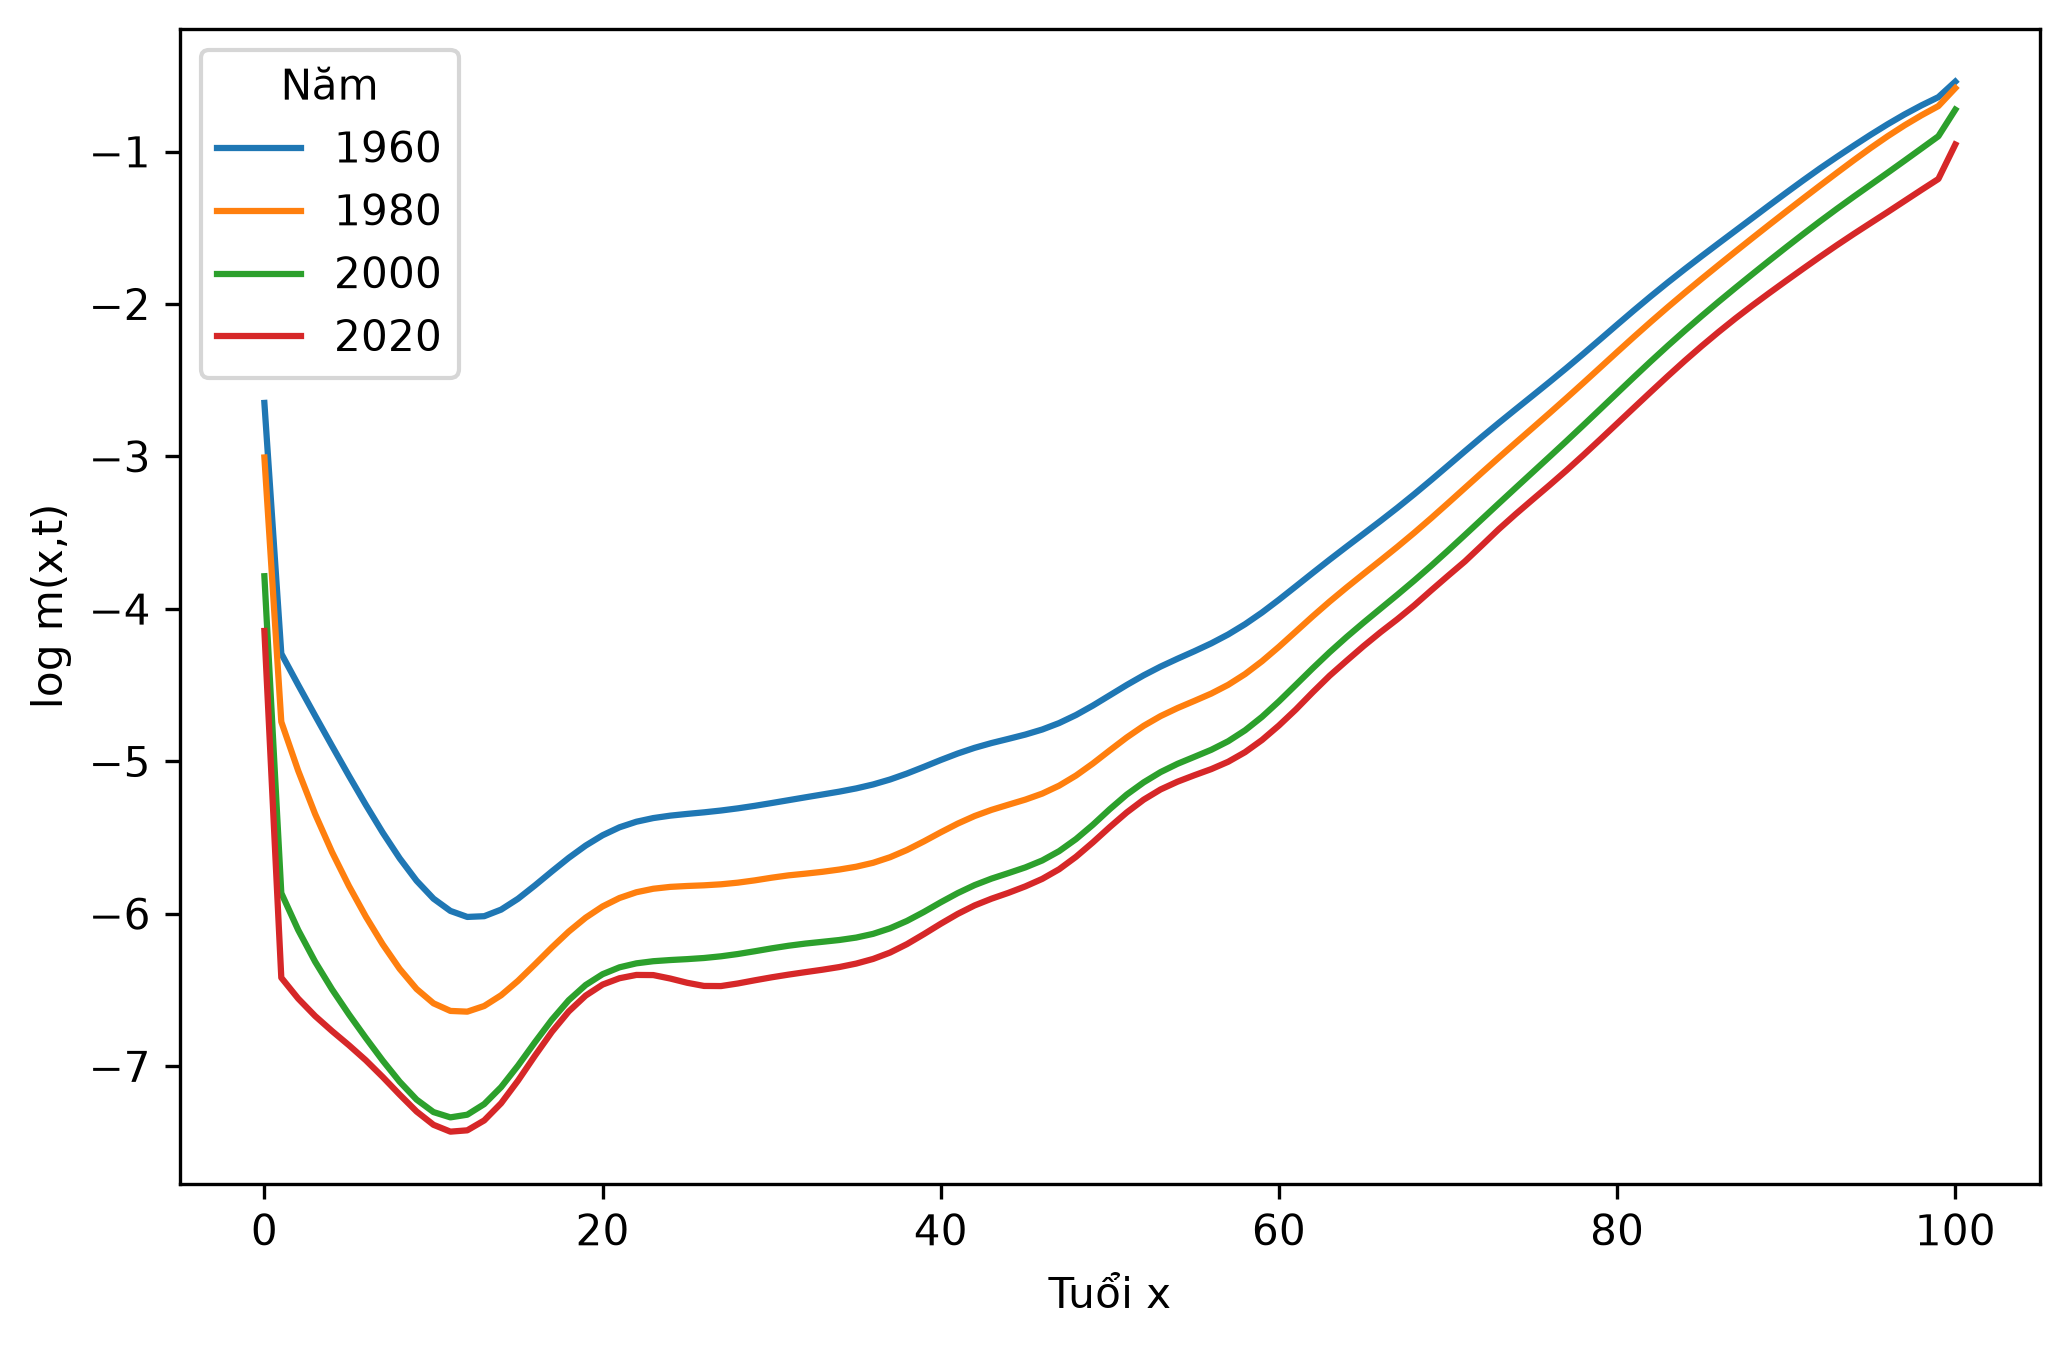
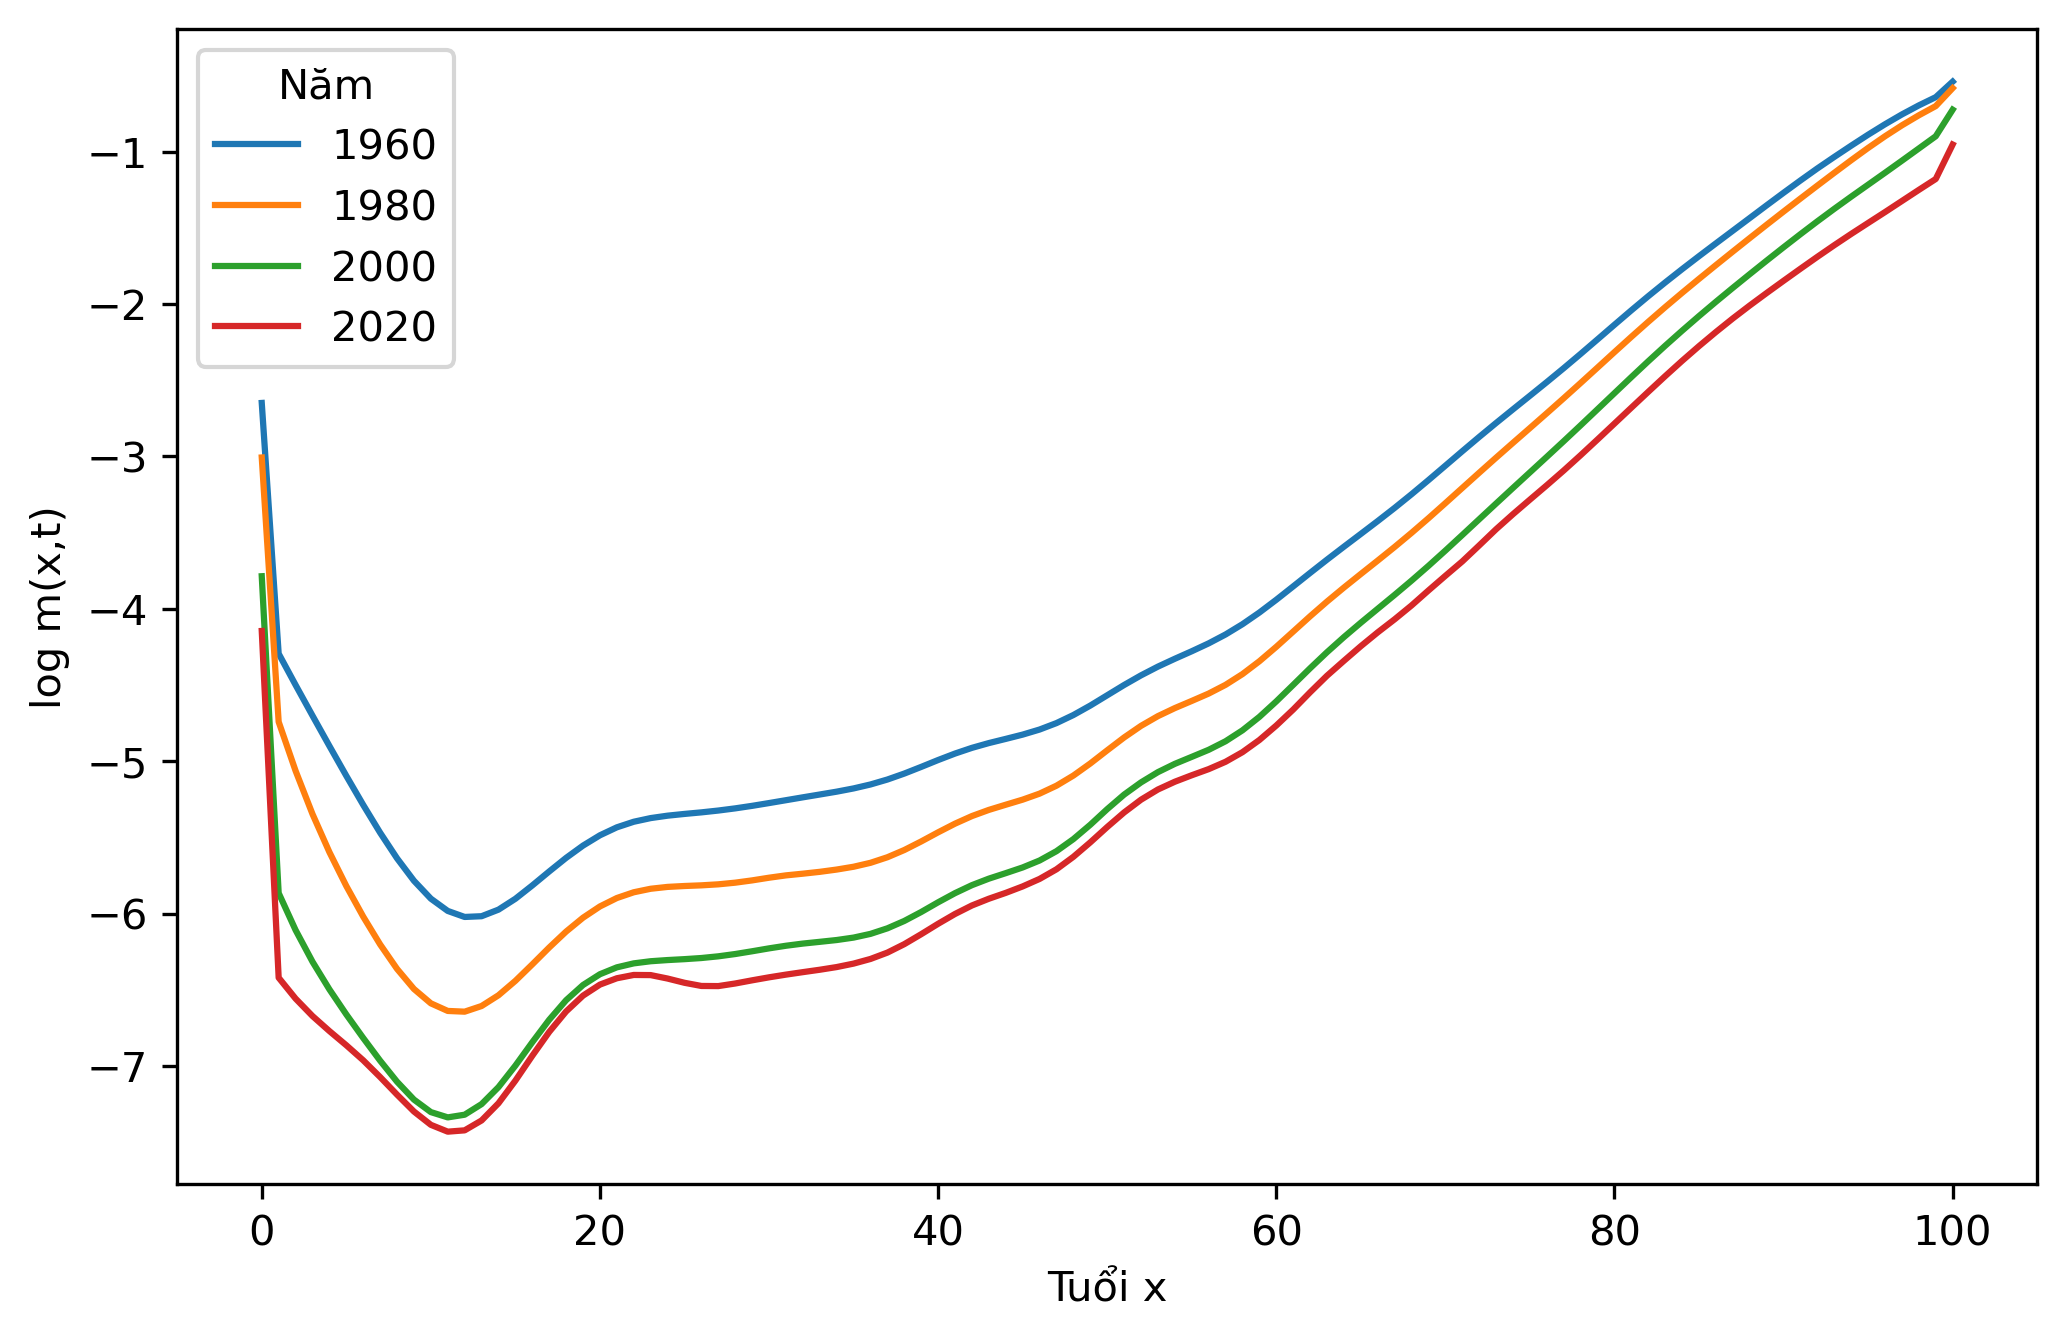
bổ sung thay đổi xuất hình ảnh, biểu đồ theo định dạnh PDF thay vì png

Changed region(s): [[0.031, 0.0306, 0.9908, 0.9485], [0.0, 0.3672, 0.031, 0.5507], [0.4954, 0.9485, 0.5573, 0.9791]]

diff --git a/src/data/read_raw.py b/src/data/read_raw.py
@@ -3,7 +3,7 @@
 UN WPP xuất file Excel với vài chục dòng metadata phía trên bảng dữ liệu thật,
 và tên cột đầy đủ (vd. "Central death rate m(x,n)") có thể lệch nhẹ giữa các
 kỳ revision. Thay vì cố định vị trí dòng/cột, ta dò dòng tiêu đề bằng cách tìm
-dòng khớp nhiều nhất các nhãn cột mong đợi, rồi khớp cột theo mẫu regex —
+dòng khớp nhiều nhất các nhãn cột mong đợi, rồi khớp cột theo mẫu regex -
 chịu được thay đổi nhỏ về định dạng giữa các lần UN cập nhật.
 """
 from __future__ import annotations
@@ -34,7 +34,7 @@ def _find_header_row(raw: pd.DataFrame, max_scan: int = 30, min_hits: int = 4) -
             return i
     raise ValueError(
         "Không tìm thấy dòng tiêu đề trong file UN WPP trong "
-        f"{max_scan} dòng đầu — kiểm tra lại định dạng file (sheet, số dòng metadata)."
+        f"{max_scan} dòng đầu - kiểm tra lại định dạng file (sheet, số dòng metadata)."
     )
 
 
@@ -50,7 +50,7 @@ def read_wpp_single_age_life_table(path: Path) -> pd.DataFrame:
 
     Trả về long-format: cột year, age, mx, exposure.
 
-    `exposure` lấy xấp xỉ từ L(x,n) — person-years lived trong bảng sống —
+    `exposure` lấy xấp xỉ từ L(x,n) - person-years lived trong bảng sống -
     vì file life table (F06) của UN không tách deaths/exposure dân số thực
     (nằm ở file Population riêng, ngoài phạm vi ở đây). Do đó
     Dxt = mx * Ext là MỘT GIẢ ĐỊNH cần ghi rõ trong luận văn, không phải số

diff --git a/src/visualization/plots.py b/src/visualization/plots.py
@@ -7,11 +7,11 @@ from src.config import FIGURES
 
 def _save(fig, name: str) -> None:
     FIGURES.mkdir(parents=True, exist_ok=True)
-    fig.savefig(FIGURES / f"{name}.png", dpi=300, bbox_inches="tight")
+    fig.savefig(FIGURES / f"{name}.pdf", dpi=300, bbox_inches="tight")
 
 
 def plot_log_mx_by_age(mx: pd.DataFrame, years: list[int], name: str = "log_mx_by_age"):
-    """log m_x theo tuổi, mỗi đường một năm — hình mở đầu chương EDA."""
+    """log m_x theo tuổi, mỗi đường một năm."""
     fig, ax = plt.subplots(figsize=(8, 5))
     for y in years:
         ax.plot(mx.index, np.log(mx[y]), label=str(y))